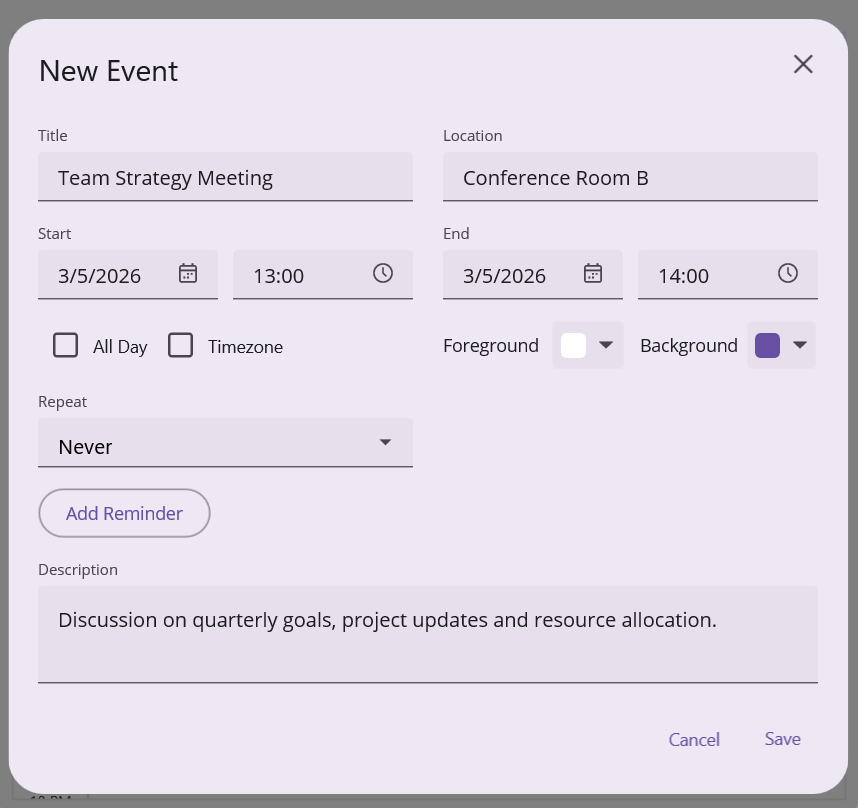
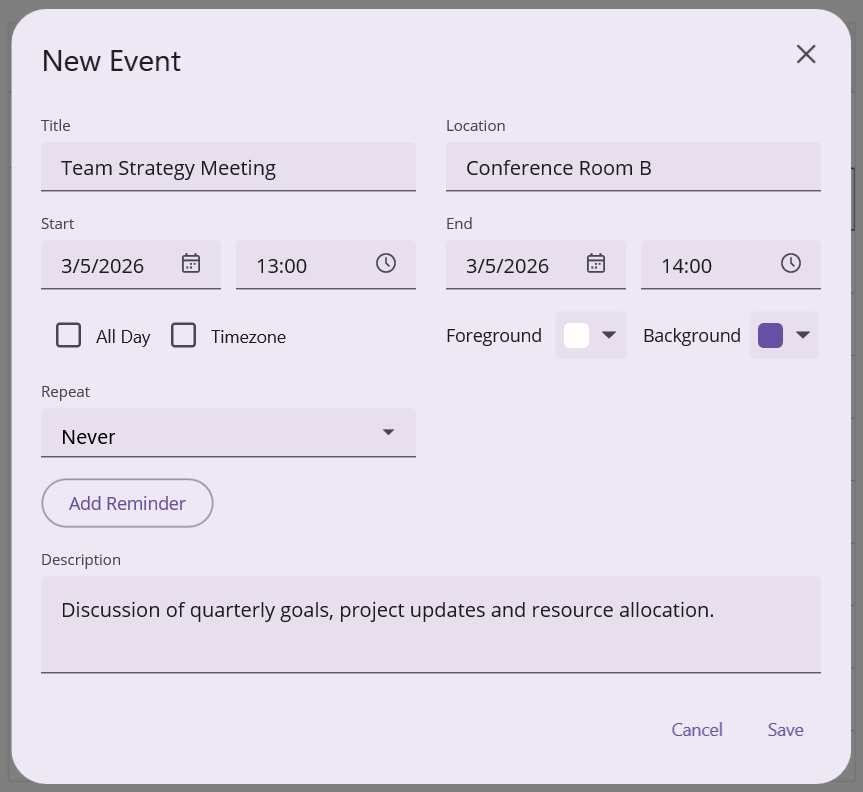
Added the revised images for appointment adding and editing, and corrected the highlighted line number in the appointment tooltip template code snippet.

diff --git a/MAUI/Scheduler/appointment-tooltip.md b/MAUI/Scheduler/appointment-tooltip.md
@@ -94,7 +94,7 @@ public partial class MainPage : ContentPage
 The `AppointmentToolTipTemplate` property lets you create a custom tooltip layout for appointments, allowing you to display additional information or change the tooltip’s appearance as needed.
 
 {% tabs %}
-{% highlight xaml tabtitle="XAML" hl_lines="9 10 29 30" %}
+{% highlight xaml tabtitle="XAML" hl_lines="9 10 49 50" %}
 <scheduler:SfScheduler x:Name="scheduler" 
                        View="Day" 
                        IsAppointmentToolTipEnabled="True">
